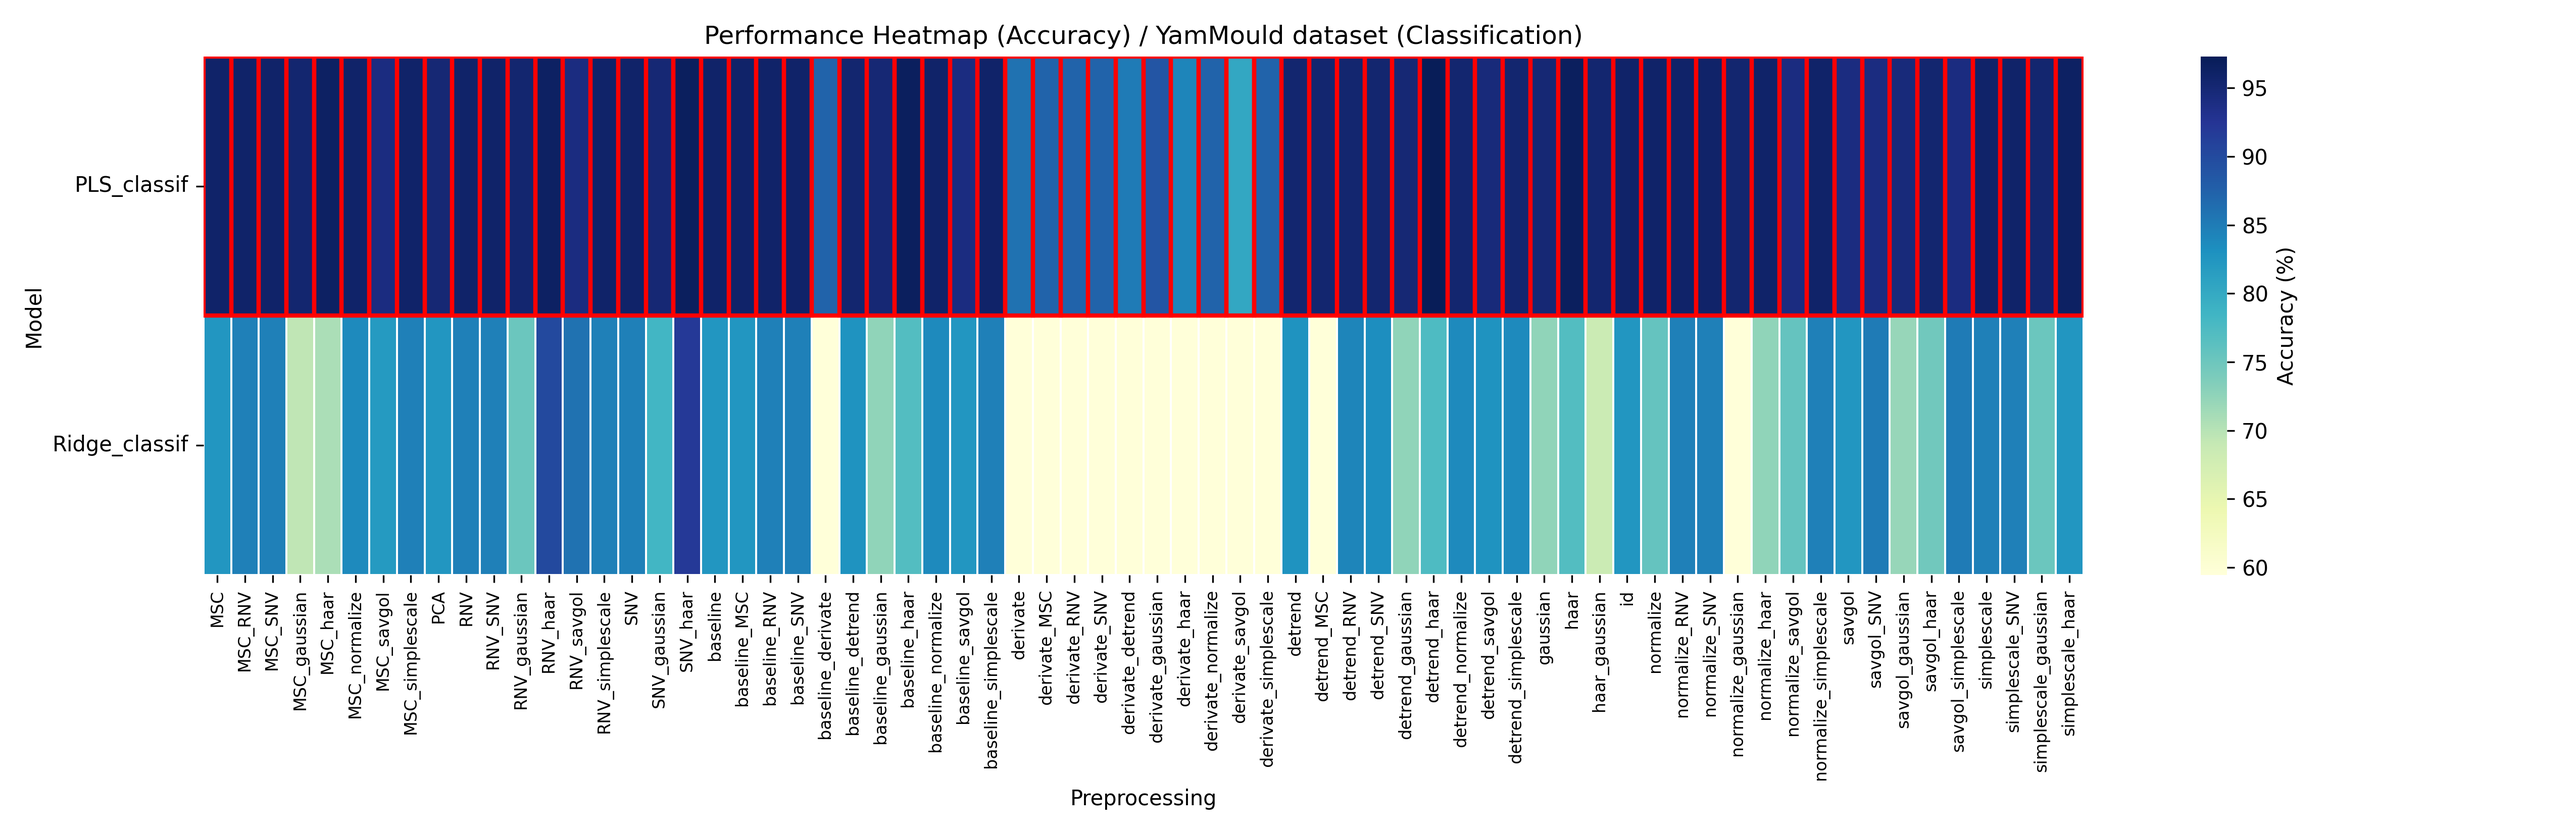
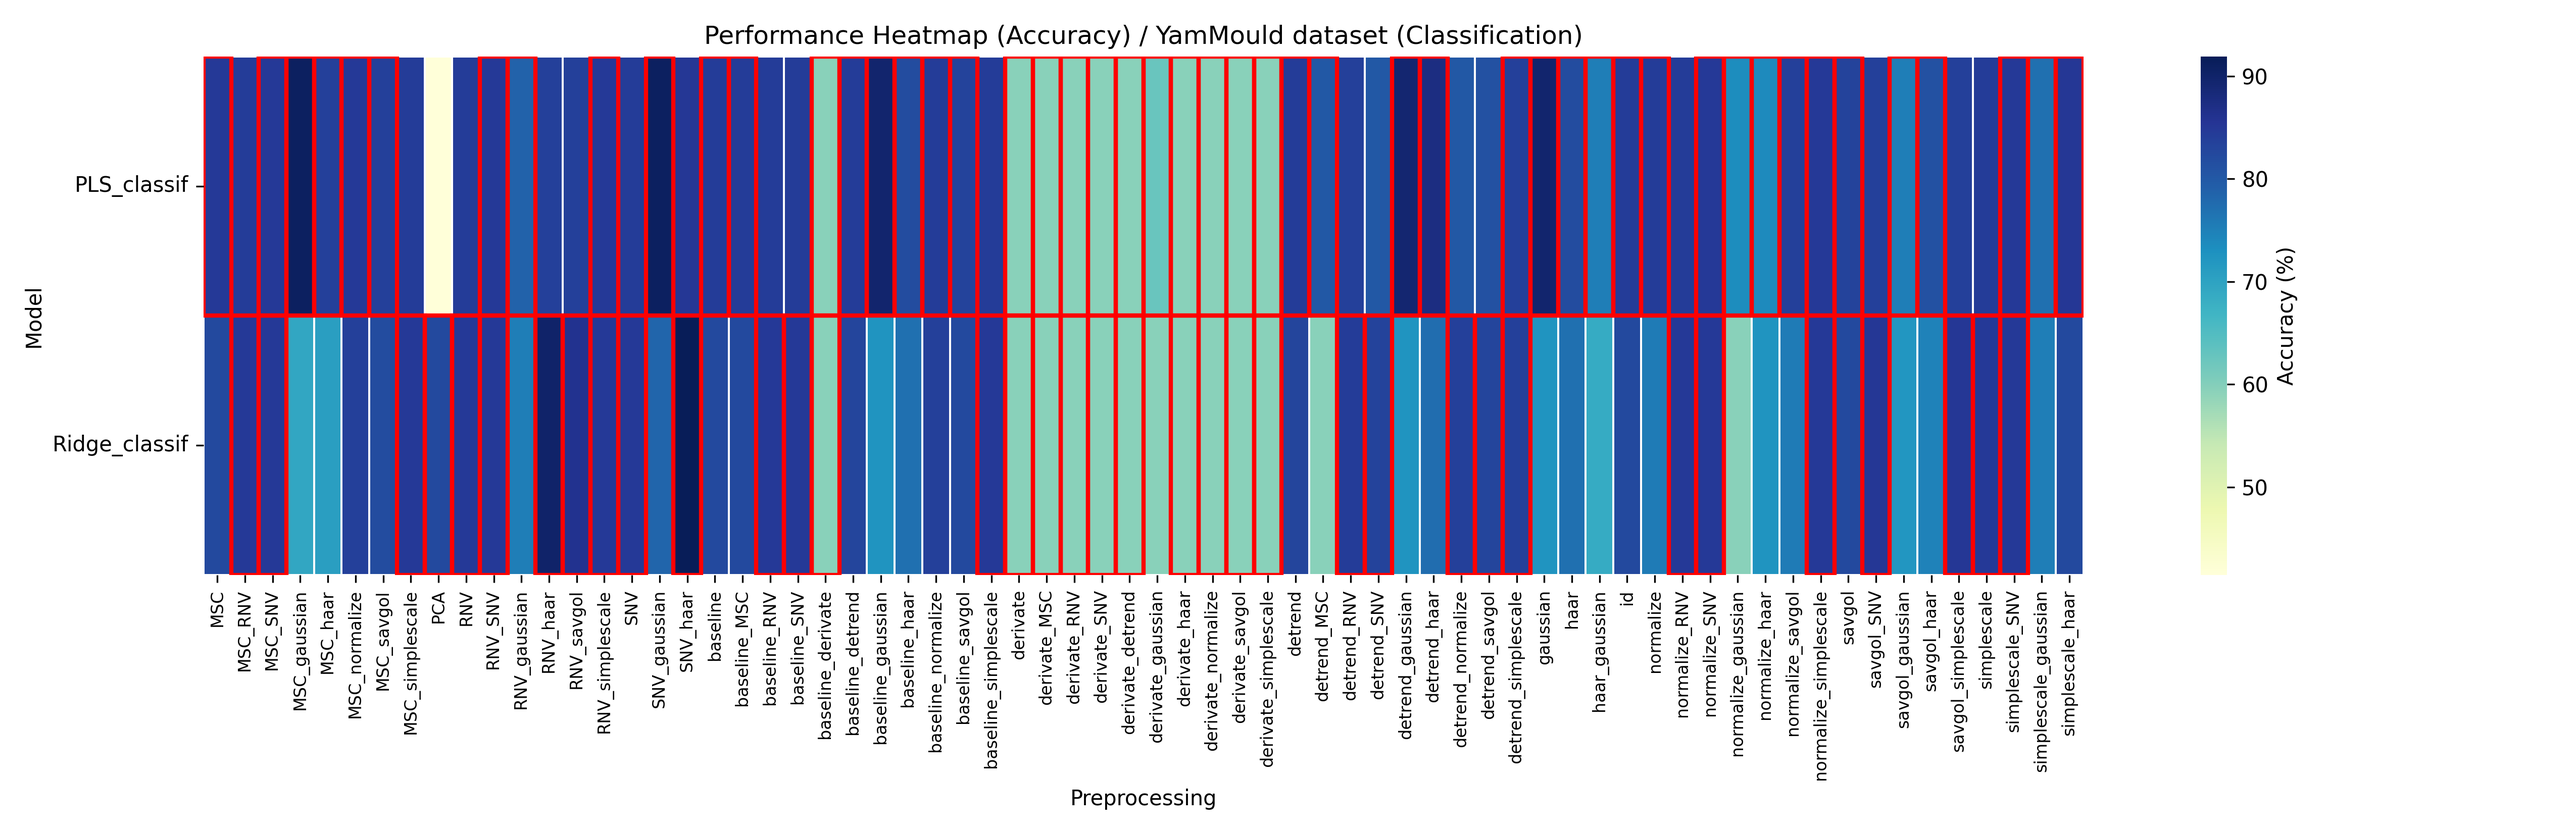
small modifs plsda

diff --git a/PLS_opti_classif.py b/PLS_opti_classif.py
@@ -2,7 +2,7 @@ from sklearn.base import BaseEstimator, ClassifierMixin
 from sklearn.cross_decomposition import PLSRegression
 from sklearn.model_selection import KFold
 from sklearn.preprocessing import LabelBinarizer
-from sklearn.metrics import log_loss
+from sklearn.metrics import accuracy_score
 from sklearn.exceptions import NotFittedError
 from hyperopt import fmin, tpe, hp, Trials, STATUS_OK
 from joblib import Parallel, delayed
@@ -20,17 +20,20 @@ class AutoPLSDAClassifier(BaseEstimator, ClassifierMixin):
 
     def fit(self, X, y):
         n_wavelengths = X.shape[-1]
+        
         # Determine valid upper limit for components
         if self.candidate_components is None:
             nb_spectra_cv = int(X.shape[0] * (self.cv - 1) / self.cv)
             global_max = min(n_wavelengths, nb_spectra_cv)
             self.candidate_components = np.linspace(1, global_max, global_max, dtype=int)
+        
+        self.candidate_components = list(self.candidate_components)
 
         self.label_binarizer_ = LabelBinarizer()
         y_bin = self.label_binarizer_.fit_transform(y)
-
-        # Always force y_bin to have shape (n_samples, n_classes)
         n_classes = len(self.label_binarizer_.classes_)
+
+        # Ensure shape (n_samples, n_classes)
         if y_bin.ndim == 1:
             y_bin = y_bin.reshape(-1, 1)
         if y_bin.shape[1] < n_classes:
@@ -39,39 +42,43 @@ class AutoPLSDAClassifier(BaseEstimator, ClassifierMixin):
 
         kf = KFold(n_splits=self.cv, shuffle=True, random_state=self.seed)
 
-        def run_fold(train_idx, test_idx, model):
+        def run_fold(train_idx, test_idx, n_components):
             try:
+                model = PLSRegression(n_components=int(n_components), scale=self.scale)
                 X_train, X_test = X[train_idx], X[test_idx]
-                y_train, y_test = y_bin[train_idx], y_bin[test_idx]  # log_loss expects binarized y
+                y_train, y_test = y_bin[train_idx], y_bin[test_idx]
+                
                 model.fit(X_train, y_train)
                 y_scores = model.predict(X_test)
-                # Clip and normalize to get valid probabilities
-                if y_scores.ndim == 1 or y_scores.shape[1] == 1:
-                    y_prob = np.clip(y_scores.reshape(-1, 1), 0, 1)
-                    y_prob = np.hstack([1 - y_prob, y_prob])
+
+                # Convert scores to predicted classes
+                if n_classes == 2:
+                    y_pred = (y_scores[:, 0] > 0.5).astype(int)
+                    y_true = y_test[:, 0]
                 else:
-                    y_scores = np.clip(y_scores, 0, None)
-                    row_sums = y_scores.sum(axis=1, keepdims=True)
-                    y_prob = y_scores / np.maximum(row_sums, 1e-8)
-                return log_loss(y_test, y_prob)
+                    y_pred = np.argmax(y_scores, axis=1)
+                    y_true = np.argmax(y_test, axis=1)
+
+                return accuracy_score(y_true, y_pred)
             except Exception:
-                return np.inf  # strong penalty to avoid interfering with actual loss values
+                return 0.0  # Penalize failures
 
         def objective(n_components):
-            model = PLSRegression(n_components=int(n_components), scale=self.scale)
-
             if self.parallelism:
-                losses = Parallel(n_jobs=-1)(
-                    delayed(run_fold)(train_idx, test_idx, model)
+                accs = Parallel(n_jobs=-1)(
+                    delayed(run_fold)(train_idx, test_idx, n_components)
                     for train_idx, test_idx in kf.split(X)
                 )
             else:
-                losses = [run_fold(train_idx, test_idx, model) for train_idx, test_idx in kf.split(X)]
+                accs = [run_fold(train_idx, test_idx, n_components) for train_idx, test_idx in kf.split(X)]
 
-            avg_loss = np.mean(losses)
-            return {'loss': avg_loss, 'status': STATUS_OK}
+            avg_acc = np.mean(accs)
+
+            return {'loss': -avg_acc, 'status': STATUS_OK}  # negative for maximization
+        
         statut_parallel = "in parallel" if self.parallelism else "sequentially"
         print(f"[INFO] Execution of PLSDA {self.cv}-fold cv in {statut_parallel}.")
+
         space = hp.choice('n_components', self.candidate_components)
         trials = Trials()
         best = fmin(
@@ -79,36 +86,31 @@ class AutoPLSDAClassifier(BaseEstimator, ClassifierMixin):
             space=space,
             algo=tpe.suggest,
             trials=trials,
+            max_evals=len(self.candidate_components),
             rstate=np.random.default_rng(self.seed)
         )
-        self.best_n_components_ = int(best)
-        print(f"[AutoPLSDAClassifier] Optimal number of components: {self.best_n_components_}")
 
-        self.best_model_ = PLSRegression(n_components=self.best_n_components_, scale=self.scale)
+        best_idx = best['n_components']
+        self.best_n_component_ = int(self.candidate_components[best_idx])
+        print(f"[AutoPLSDAClassifier] Optimal number of components: {self.best_n_component_}")
+
+        self.best_model_ = PLSRegression(n_components=self.best_n_component_, scale=self.scale)
         self.best_model_.fit(X, y_bin)
         return self
 
     def predict(self, X):
         if not hasattr(self, "best_model_"):
             raise NotFittedError("Model is not fitted yet.")
-
         y_scores = self.best_model_.predict(X)
-
-        # Ensure 2D
         if y_scores.ndim == 1:
             y_scores = y_scores.reshape(-1, 1)
 
         n_classes = len(self.label_binarizer_.classes_)
-        if y_scores.shape[1] < n_classes:
-            missing_cols = n_classes - y_scores.shape[1]
-            y_scores = np.hstack([y_scores, np.zeros((y_scores.shape[0], missing_cols))])
-
-        # Binary classification
         if n_classes == 2:
-            return self.label_binarizer_.inverse_transform(y_scores > 0.5)
-
-        # Multi-class: avoid inverse_transform errors, use argmax
-        return self.label_binarizer_.classes_[np.argmax(y_scores, axis=1)]
+            y_pred = (y_scores[:, 0] > 0.5).astype(int)
+            return self.label_binarizer_.inverse_transform(y_pred)
+        else:
+            return self.label_binarizer_.classes_[np.argmax(y_scores, axis=1)]
 
     def predict_proba(self, X):
         if not hasattr(self, "best_model_"):
@@ -123,6 +125,5 @@ class AutoPLSDAClassifier(BaseEstimator, ClassifierMixin):
             return y_scores / np.maximum(row_sums, 1e-8)
 
     def score(self, X, y):
-        y_bin = self.label_binarizer_.transform(y)
-        y_prob = self.predict_proba(X)
-        return -log_loss(y_bin, y_prob)  # positive score (to maximize)
+        y_pred = self.predict(X)
+        return accuracy_score(y, y_pred)

diff --git a/Scripts_python/Model_optim/pls_components_hybrid.py b/Scripts_python/Model_optim/pls_components_hybrid.py
@@ -6,33 +6,26 @@ def get_pls_component_candidates(n_spectra, n_wavelengths, prior_components, max
     nb_spectra_cv = int(n_spectra * (cv - 1) / cv)
     max_comp = min(n_wavelengths, nb_spectra_cv)
 
+    # Security: we can't have more unique candidates than possible components
+    max_evals = min(max_evals, max_comp)
+
     if len(prior_components) == 0:
-        # No prior knowledge → uniform search
         return np.linspace(1, max_comp, max_evals, dtype=int)
     
-    # Compute median and std from prior results
     mu = int(np.median(prior_components))
     sigma_empirical = np.std(prior_components)
-    
-    # Prevent sigma from being too small
-    sigma_min = max(2, max_comp * 0.05)  # 5% of wavelengths or at least 2 comps
+    sigma_min = max(2, max_comp * 0.05)
     sigma = max(sigma_empirical, sigma_min)
     
-    # Generate candidates from truncated normal distribution
-    candidates = []
-    while len(candidates) < max_evals:
-        # Draw a batch from normal
+    candidates = set()
+    attempts = 0
+    max_attempts = 1000  # safety stop
+
+    while len(candidates) < max_evals and attempts < max_attempts:
         batch = rng.normal(loc=mu, scale=sigma, size=max_evals*2)
         batch = np.round(batch).astype(int)
-        
-        # Keep only within valid range
         batch = batch[(batch >= 1) & (batch <= max_comp)]
-        
-        # Append unique ones until reaching max_evals
-        for b in batch:
-            if b not in candidates:
-                candidates.append(b)
-                if len(candidates) >= max_evals:
-                    break
-    
-    return np.array(candidates, dtype=int)
+        candidates.update(batch)
+        attempts += 1
+
+    return np.array(list(candidates)[:max_evals], dtype=int)

diff --git a/association_pp_model.py b/association_pp_model.py
@@ -244,7 +244,8 @@ def evaluate_combination(pp_name, pp_method, mdl_name, mdl, mode, Xcal, Ycal, Xv
             parallelism = big_dataset
             
             # Hybrid candidate selection
-            max_evals = total_evals // 20 if len(prior_components) > 0 else total_evals
+            max_evals = total_evals // 5 if len(prior_components) > 0 else total_evals
+            print("Number of trials tested for PLSDA : ", max_evals)
             candidates = get_pls_component_candidates(
                 n_spectra = Xcal.shape[0],
                 n_wavelengths=n_wavelengths,
@@ -329,10 +330,11 @@ def evaluate_combination(pp_name, pp_method, mdl_name, mdl, mode, Xcal, Ycal, Xv
         trained_model = pipe.named_steps["model"]
 
         # if the model is PLS, store the best number of components
-        if mdl_name.startswith("PLS") and hasattr(trained_model, 'best_n_components_'):
-            optimal_comp = trained_model.best_n_components_
+        if mdl_name.startswith("PLS") and hasattr(trained_model, 'best_n_component_'):
+            optimal_comp = trained_model.best_n_component_
             if pp_name not in prior_components:
                 prior_components.append(optimal_comp)
+                print("Prior components list updated : ", prior_components)
 
         # if the model is NICON, store the optimal hyperparameters
         elif mdl_name.startswith('NICON') and hasattr(trained_model, 'best_trials'):

diff --git a/Notes_phd_Robin/journals/2025_08_08.md b/Notes_phd_Robin/journals/2025_08_08.md
@@ -1,4 +1,4 @@
 ### Reminders
 	- DONE Continuer les tâches en cours
 	- DONE Mettre en place la nouvelle technique de choix des composantes PLS
-	- TODO Expliquer la nouvelle technique de choix des composantes PLS dans Logseq/Optimisation
+	- DONE Expliquer la nouvelle technique de choix des composantes PLS dans Logseq/Optimisation

diff --git a/Notes_phd_Robin/journals/2025_08_11.md b/Notes_phd_Robin/journals/2025_08_11.md
@@ -1,0 +1,4 @@
+### Reminders
+	- TODO Continuer les tâches en cours
+	- TODO Explorer approches meilleures que médiane pour optimisation progressive
+	- TODO Mettre en place un rééquilibre des classes dans le cas des bases de données de classification (important notamment pour la PLSDA)
